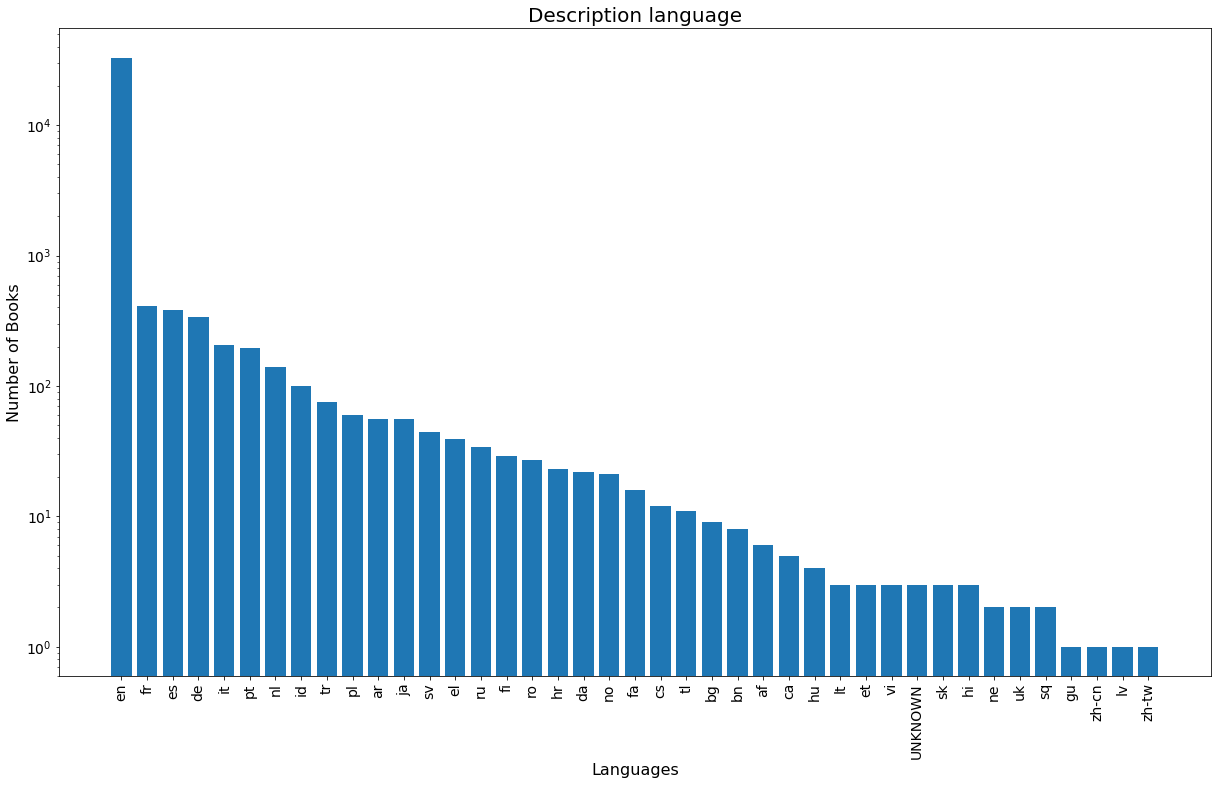
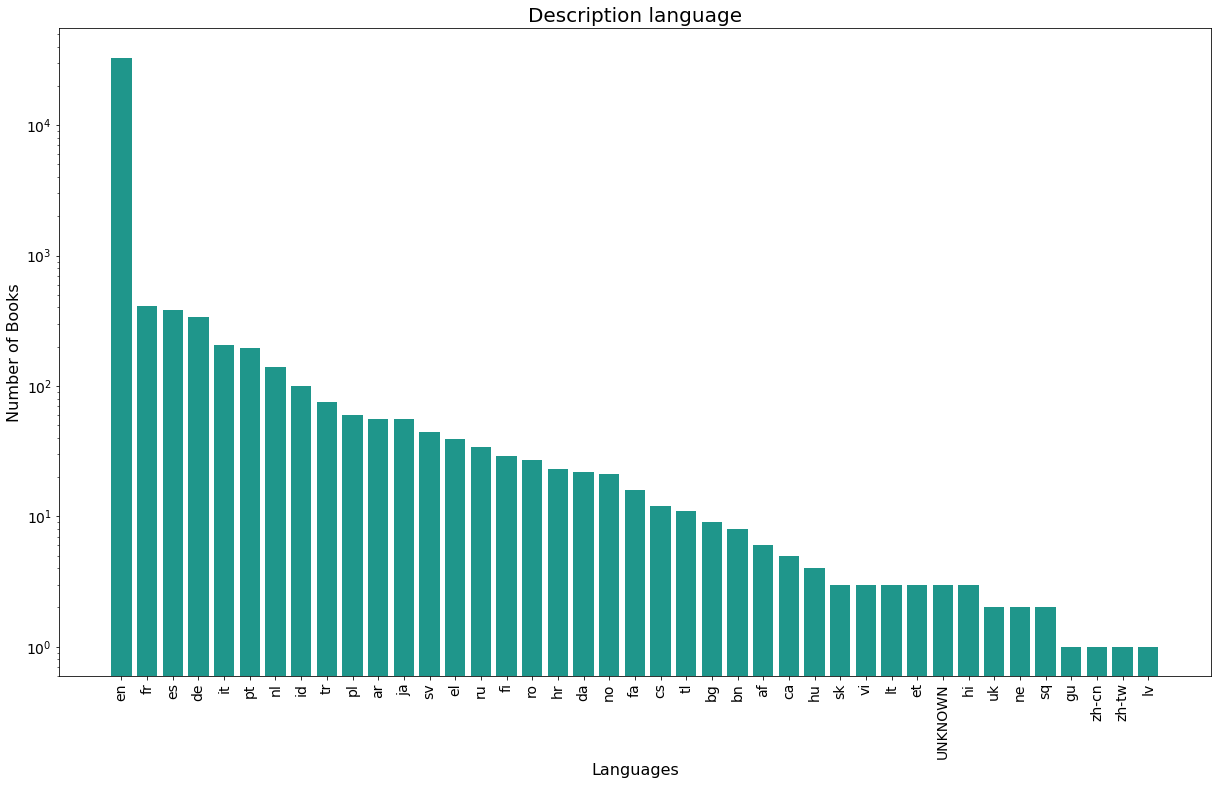
More statistics graphs added

Changed region(s): [[0.0936, 0.0611, 0.9672, 0.9783]]

diff --git a/scripts/pipeline/development.py b/scripts/pipeline/development.py
@@ -12,8 +12,11 @@ import numpy as np
 from re import sub, match
 import math
 import spacy
+import random
 from spacy_langdetect import LanguageDetector
 from spacy.language import Language
+from collections import Counter
+
 
 
 dataset = pandas.read_csv("../../dataset/goodreads_books_clean.csv")
@@ -24,6 +27,10 @@ dataset_characters = pandas.read_csv("../../dataset/characters.csv")
 dataset_genres = pandas.read_csv("../../dataset/genre_and_votes.csv")
 
 dataset_langs = pandas.read_csv("../../statistics/descriptions_languages.csv")
+
+#colors (viridis)
+colors = ['#440154ff','#481567ff','#482677ff','#453781ff','#404788ff', '#39568cff', '#33638dff', '#2d708eff','#287d8eff','#238a8dff','#1f968bff','#20a387ff','#29af7fff','#3cbb75ff','#55c667ff','#73d055ff','#95d840ff','#b8de29ff','#dce319ff','#fde725ff']
+
 
 #Character names word cloud
 # text = ""
@@ -78,7 +85,7 @@ dataset_langs = pandas.read_csv("../../statistics/descriptions_languages.csv")
 
 # fig = plt.figure(figsize=(16,9))
 # ax = fig.add_axes([0,0,1,1])
-# ax.bar(genres_dict_sorted.keys(),genres_dict_sorted.values())
+# ax.bar(genres_dict_sorted.keys(),genres_dict_sorted.values(), color = "#1f968bff")
 # plt.title('Genres with a total of more than 100.000 votes', fontsize=20)
 # plt.xlabel('Genres', fontsize=16)
 # plt.ylabel('Number of Votes', fontsize=16)
@@ -104,7 +111,7 @@ dataset_langs = pandas.read_csv("../../statistics/descriptions_languages.csv")
     
 # fig = plt.figure(figsize=(16,9))
 # ax = fig.add_axes([0,0,1,1])
-# ax.bar(genres_dict_sorted.keys(),genres_dict_sorted.values())
+# ax.bar(genres_dict_sorted.keys(),genres_dict_sorted.values(), color = "#1f968bff")
 # plt.title('Genres present in more than 1.000 books', fontsize=20)
 # plt.xlabel('Genres', fontsize=16)
 # plt.ylabel('Number of Books', fontsize=16)
@@ -129,7 +136,7 @@ dataset_langs = pandas.read_csv("../../statistics/descriptions_languages.csv")
     
     
     
-#Publish Year distribution histogram
+#Publication Year distribution histogram
 # def parse_year(date):
 #     if type(date) == type(float("nan")):
 #         return
@@ -179,28 +186,149 @@ dataset_langs = pandas.read_csv("../../statistics/descriptions_languages.csv")
 # dataset_languages.to_csv('../../statistics/descriptions_languages.csv', index = False)
         
 #Generate graph (read from previous csv to )
+# lang_dict = dataset_langs["language"].value_counts().to_dict()
 
-lang_dict = dataset_langs["language"].value_counts().to_dict()
+# fig = plt.figure(figsize=(16,9))
+# ax = fig.add_axes([0,0,1,1])
+# ax.bar(lang_dict.keys(), lang_dict.values(), color = "#1f968bff")
+# plt.title('Description language', fontsize=20)
+# plt.xlabel('Languages', fontsize=16)
+# plt.ylabel('Number of Books', fontsize=16)
+# plt.xticks(rotation=90, fontsize=14)
+# plt.yticks(fontsize=14)
+# ax.ticklabel_format(style='plain', axis='y')
+# ax.set_yscale('log')
+# plt.show()
+    
 
-fig = plt.figure(figsize=(16,9))
-ax = fig.add_axes([0,0,1,1])
-ax.bar(lang_dict.keys(), lang_dict.values())
-plt.title('Description language', fontsize=20)
-plt.xlabel('Languages', fontsize=16)
-plt.ylabel('Number of Books', fontsize=16)
-plt.xticks(rotation=90, fontsize=14)
-plt.yticks(fontsize=14)
-ax.ticklabel_format(style='plain', axis='y')
-ax.set_yscale('log')
-plt.show()
+#Award Year distribution histogram
+# fig = plt.figure(figsize=(16,9))
+# n, bins, patches = plt.hist(dataset_awards['Year'].dropna(inplace=False), bins=250, facecolor='#2ab0ff', edgecolor='#e0e0e0', linewidth=0.5, alpha=0.7)
+# n = n.astype('int') # it MUST be integer
+# for i in range(len(patches)):
+#     patches[i].set_facecolor(plt.cm.viridis(n[i]/max(n)))
+
+# plt.title('Award Year Distribution', fontsize=20)
+# plt.xlabel('Year', fontsize=16)
+# plt.ylabel('Count', fontsize=16)
+# plt.xticks(fontsize=14)
+# plt.yticks(fontsize=14)
+# plt.show() 
+
+
+#Author's number of books
+# author_books_dict = {'With 1 book':0, 'With 2 books':0, 'With 3 books':0, 'With 4 books':0, 'With >=5 books':0}
+# for i in dataset["author"].value_counts().tolist():
+#     if i == 1:
+#         author_books_dict['With 1 book'] = author_books_dict['With 1 book'] + 1
+#         continue
+#     if i == 2:
+#         author_books_dict['With 2 books'] = author_books_dict['With 2 books'] + 1
+#         continue
+#     if i == 3:
+#         author_books_dict['With 3 books'] = author_books_dict['With 3 books'] + 1
+#         continue
+#     if i == 4:
+#         author_books_dict['With 4 books'] = author_books_dict['With 4 books'] + 1
+#         continue
+#     if i >= 5:
+#         author_books_dict['With >=5 books'] = author_books_dict['With >=5 books'] + 1
+#         continue
     
+# colors_pie = ['#b8de29ff','#73d055ff','#1f968bff','#39568cff','#440154ff']
+# fig1, ax = plt.subplots(figsize=(16,9))
+# centre_circle = plt.Circle((0,0),0.70,fc='white')
+# fig = plt.gcf()
+# fig.gca().add_artist(centre_circle)
+# plt.title('Authors by Number of Books', fontsize=20)
+# ax.pie(author_books_dict.values(), colors = colors_pie, autopct='%1.1f%%', startangle=90)
+# ax.axis('equal')  # Equal aspect ratio ensures that pie is drawn as a circle.
+# ax.legend().set_visible(False)
+# plt.legend(labels=author_books_dict.keys())
+# plt.show()    
+
+
+#Reviews text size
+
+# reviews_text = dataset_reviews[" Reviews"].tolist()
+# reviews_words =  []
+# for i in reviews_text:
+#     reviews_words.append(len(str(i).split(" ")))
     
+# reviews_length_dict = {"X-Small (1-49)": 0, "Small (50-99)": 0, "Medium (100-249)": 0, "Large (250-499)":0, "X-Large (500-999)":0, "XX-Large (>1000)":0}
+# for i in reviews_words:
+#     if i > 0 and i < 50:
+#         reviews_length_dict["X-Small (1-49)"] = reviews_length_dict["X-Small (1-49)"] + 1
+#         continue
+#     if i >= 50 and i < 100:
+#         reviews_length_dict["Small (50-99)"] = reviews_length_dict["Small (50-99)"] + 1
+#         continue
+#     if i >= 100 and i < 250:
+#         reviews_length_dict["Medium (100-249)"] = reviews_length_dict["Medium (100-249)"] + 1
+#         continue
+#     if i >= 250 and i < 500: 
+#         reviews_length_dict["Large (250-499)"] = reviews_length_dict["Large (250-499)"] + 1
+#         continue
+#     if i >= 500 and i < 1000: 
+#         reviews_length_dict["X-Large (500-999)"] = reviews_length_dict["X-Large (500-999)"] + 1
+#         continue
+#     if i >= 1000:
+#         reviews_length_dict["XX-Large (>1000)"] = reviews_length_dict["XX-Large (>1000)"] + 1
+#         continue
     
+# colors_pie = ['#fde725ff','#b8de29ff','#73d055ff','#1f968bff','#39568cff','#440154ff']
+# fig1, ax = plt.subplots(figsize=(16,9))
+# centre_circle = plt.Circle((0,0),0.70,fc='white')
+# fig = plt.gcf()
+# fig.gca().add_artist(centre_circle)
+# plt.title('Reviews Text Length (in words)', fontsize=20)
+# ax.pie(reviews_length_dict.values(), colors = colors_pie, autopct='%1.1f%%', startangle=90)
+# ax.axis('equal')  # Equal aspect ratio ensures that pie is drawn as a circle.
+# ax.legend().set_visible(False)
+# plt.legend(labels=reviews_length_dict.keys())
+# plt.show()    
+
+
+#Number of books in a series
+
+# books_series_dict ={"With 1 book":0,"With 2 books":0,"With 3 books":0,"With 4 books":0, "With >=5 books":0}
+# series = dataset["series"].dropna().tolist()
+# series_split = []
+# for i in series:
+#     if '#' in i:
+#         series_split.append(i.split('#')[0][1:].rstrip())
+#     else:
+#         series_split.append(i[1:-1].rstrip())
+
+# series_counter = Counter(series_split)
+# for i in series_counter.values():
+#     if i == 1:
+#         books_series_dict["With 1 book"] = books_series_dict["With 1 book"] +1
+#         continue
+#     if i == 2:
+#         books_series_dict["With 2 books"] = books_series_dict["With 2 books"] +1
+#         continue
+#     if i == 3:
+#         books_series_dict["With 3 books"] = books_series_dict["With 3 books"] +1
+#         continue
+#     if i == 4:
+#         books_series_dict["With 4 books"] = books_series_dict["With 4 books"] +1
+#         continue
+#     if i >= 5:
+#         books_series_dict["With >=5 books"] = books_series_dict["With >=5 books"] +1
+#         continue
     
-    
-    
-    
-    
-    
-    
-    
+# colors_pie = ['#b8de29ff','#73d055ff','#1f968bff','#39568cff','#440154ff']
+# fig1, ax = plt.subplots(figsize=(16,9))
+# centre_circle = plt.Circle((0,0),0.70,fc='white')
+# fig = plt.gcf()
+# fig.gca().add_artist(centre_circle)
+# plt.title('Series by Number of Books', fontsize=20)
+# ax.pie(books_series_dict.values(), colors = colors_pie, autopct='%1.1f%%', startangle=90)
+# ax.axis('equal')  # Equal aspect ratio ensures that pie is drawn as a circle.
+# ax.legend().set_visible(False)
+# plt.legend(labels=books_series_dict.keys())
+# plt.show()  
+
+
+
